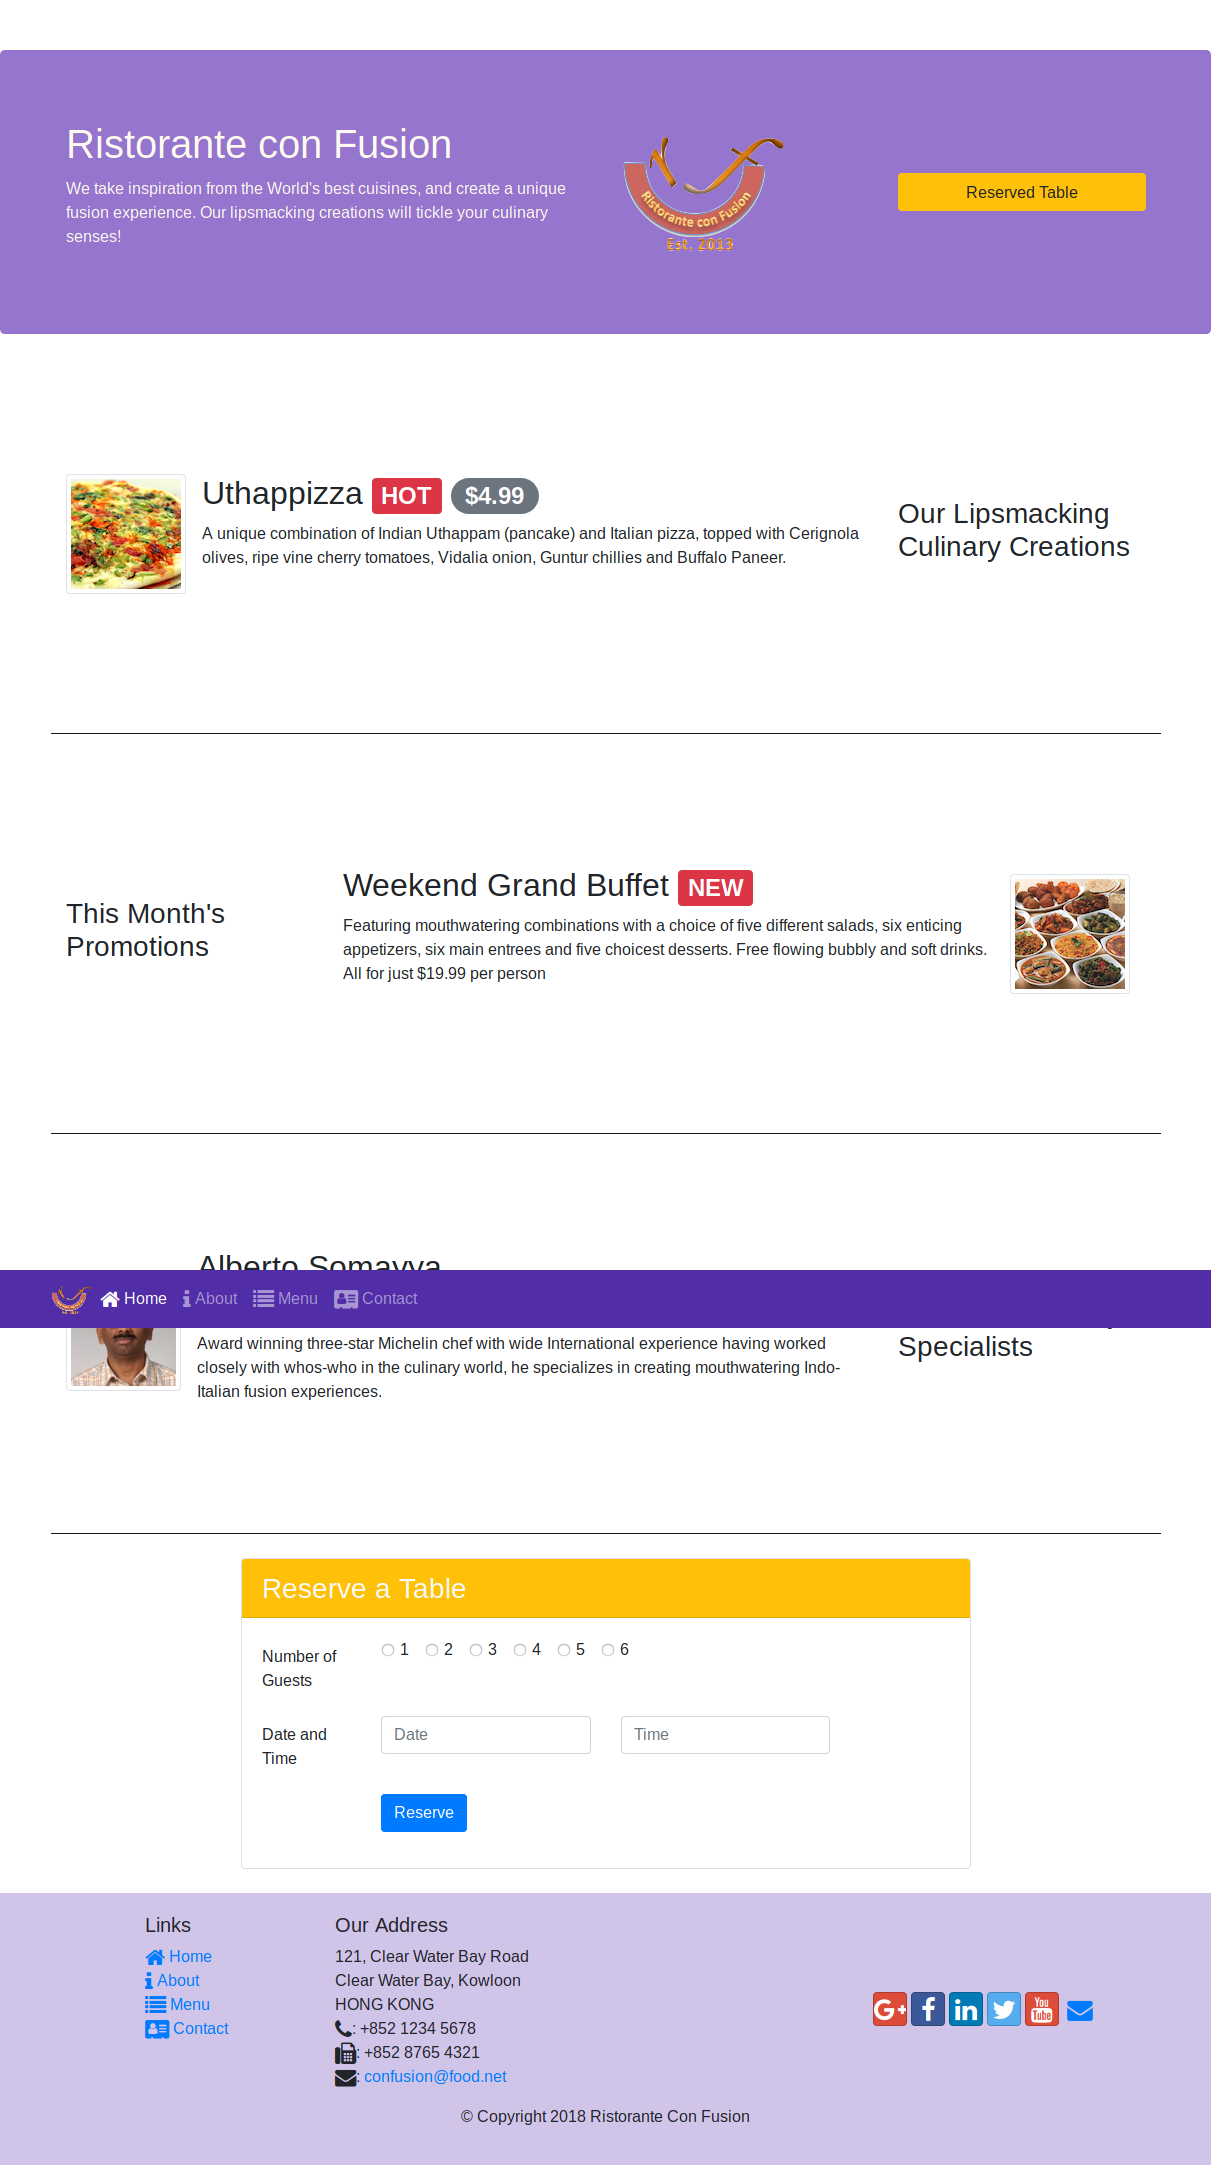
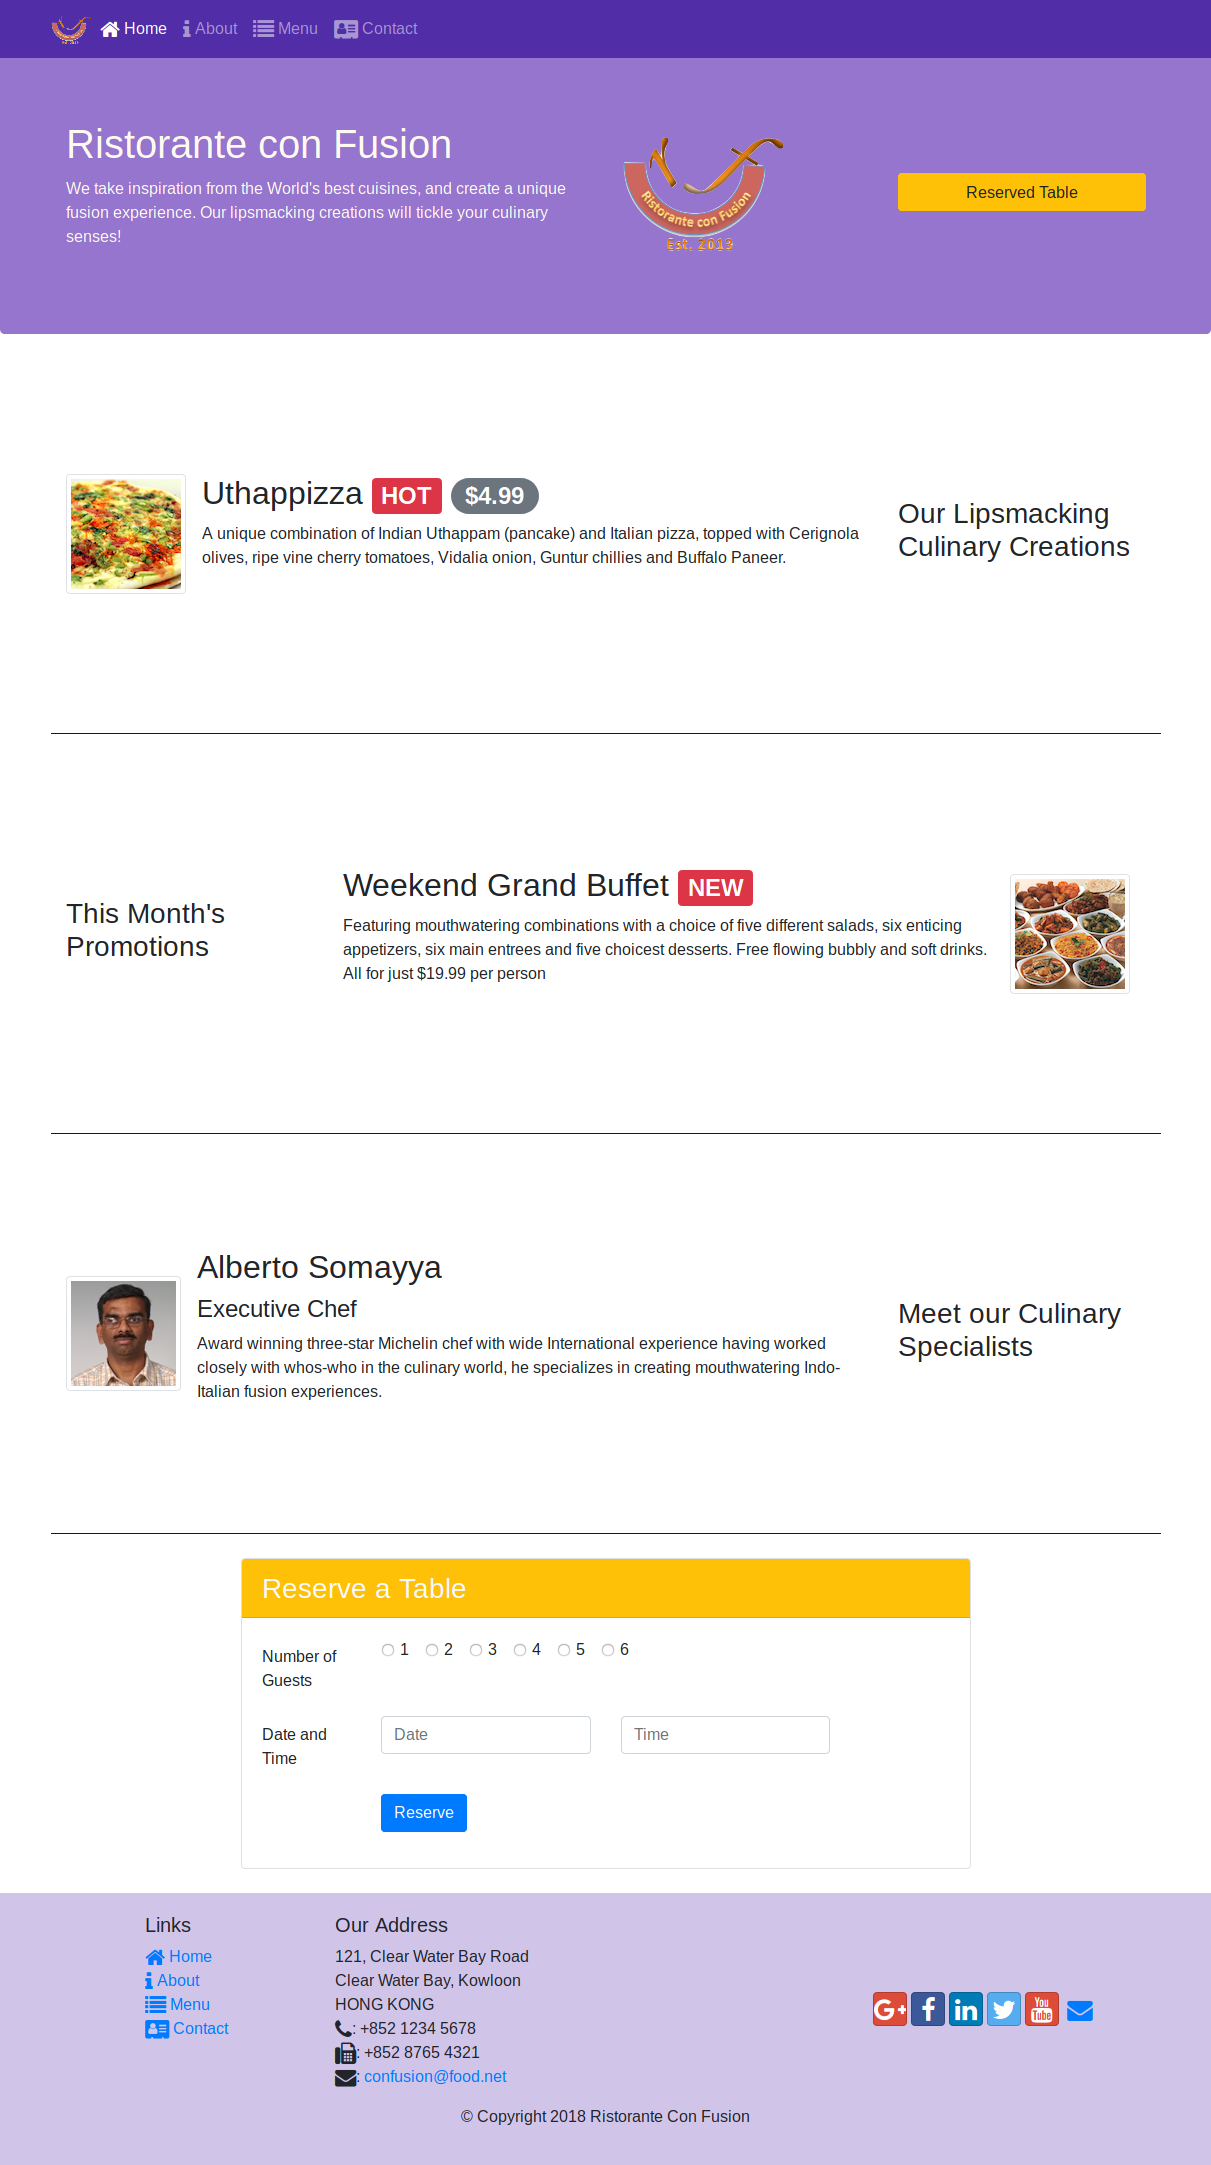
assignment 3

Changed region(s): [[0.0, 0.588, 1.0, 0.6189], [0.0, 0.0, 1.0, 0.0309]]

diff --git a/index.html b/index.html
@@ -58,10 +58,13 @@
           <img src="img/logo.png" class="img-fluid">
         </div>
         <div class="col-12 col-sm align-self-center">
-          <a href="#reserve" class="btn btn-block btn-warning nav-link" role="button" data-toggle="tooltip"
+            <a role="button" data-toggle="modal" data-target="#reserve" class="btn btn-block btn-warning nav-link">
+                 Reserved Table</a>
+              
+          <!-- <a href="#reserve" class="btn btn-block btn-warning nav-link" role="button" data-toggle="tooltip"
             data-html="true" title="Or Call us at  <br><strong>+852 12345678</strong>" data-placement="bottom">
             Reserved Table
-          </a>
+          </a> -->
         </div>
       </div>
     </div>
@@ -74,38 +77,112 @@
           <h4 class="modal-title">Login</h4>
           <button class="close" type="button" data-dismiss="modal">&times;</button>
         </div>
+        <div class="modal-body">
+          <form>
+            <div class="form-row">
+              <div class="form-group col-sm-4">
+                <label class="sr-only" for="exampleInputEmail3">Email address</label>
+                <input type="email" class="form-control form-control-sm mr-1" id="exampleInputEmail3"
+                  placeholder="Enter email">
+              </div>
+              <div class="form-group col-sm-4">
+                <label class="sr-only" for="exampleInputPassword3">Password</label>
+                <input type="password" class="form-control form-control-sm mr-1" id="exampleInputPassword3"
+                  placeholder="Password">
+              </div>
+              <div class="col-sm-auto">
+                <div class="form-check">
+                  <input class="form-check-input" type="checkbox">
+                  <label class="form-check-label"> Remember me
+                  </label>
+                </div>
+              </div>
+            </div>
+            <div class="form-row">
+              <button type="button" class="btn btn-secondary btn-sm ml-auto" data-dismiss="modal">Cancel</button>
+              <button type="submit" class="btn btn-primary btn-sm ml-1">Sign in</button>
+            </div>
+          </form>
+        </div>
+
+      </div>
+    </div>
+  </div>
+
+
+  <div id="reserve" class="modal fade" role="dialog">
+      <div class="modal-dialog modal-lg">
         <div class="modal-content">
+          <div class="modal-header">
+            <h3 class="modal-title">Reserve a Table</h3>
+            <button class="close" type="button" data-dismiss="modal">&times;</button>
+          </div>
           <div class="modal-body">
             <form>
-              <div class="form-row">
-                <div class="form-group col-sm-4">
-                  <label class="sr-only" for="exampleInputEmail3">Email address</label>
-                  <input type="email" class="form-control form-control-sm mr-1" id="exampleInputEmail3"
-                    placeholder="Enter email">
-                </div>
-                <div class="form-group col-sm-4">
-                  <label class="sr-only" for="exampleInputPassword3">Password</label>
-                  <input type="password" class="form-control form-control-sm mr-1" id="exampleInputPassword3"
-                    placeholder="Password">
-                </div>
-                <div class="col-sm-auto">
-                  <div class="form-check">
-                    <input class="form-check-input" type="checkbox">
-                    <label class="form-check-label"> Remember me
-                    </label>
+              <div class="form-group row">
+                <label class="col-12 col-md-2 col-form-label">Number of Guests</label>
+                <div class="col-10">
+                  <div class="form-check form-check-inline">
+                    <input type="radio" class="form-check-input" name="radio" id="radio1" value="1">
+                    <label for="radio1" class="form-check-label">1</label>
+                  </div>
+                  <div class="form-check form-check-inline">
+                    <input type="radio" class="form-check-input" name="radio" id="radio2" value="1">
+                    <label for="radio2" class="form-check-label">2</label>
+                  </div>
+                  <div class="form-check form-check-inline">
+                    <input type="radio" class="form-check-input" name="radio" id="radio3" value="3">
+                    <label for="radio3" class="form-check-label">3</label>
+                  </div>
+                  <div class="form-check form-check-inline">
+                    <input type="radio" class="form-check-input" name="radio" id="radio4" value="4">
+                    <label for="radio4" class="form-check-label">4</label>
+                  </div>
+                  <div class="form-check form-check-inline">
+                    <input type="radio" class="form-check-input" name="radio" id="radio5" value="5">
+                    <label for="radio5" class="form-check-label">5</label>
+                  </div>
+                  <div class="form-check form-check-inline">
+                    <input type="radio" class="form-check-input" name="radio" id="radio6" value="6">
+                    <label for="radio6" class="form-check-label">6</label>
                   </div>
                 </div>
               </div>
-              <div class="form-row">
-                <button type="button" class="btn btn-secondary btn-sm ml-auto" data-dismiss="modal">Cancel</button>
-                <button type="submit" class="btn btn-primary btn-sm ml-1">Sign in</button>
+              <div class="form-group row">
+                  <label for="" class="col-12 col-md-2 col-form-label">
+                    Section
+                  </label>
+                  <div class="btn-group btn-group-toggle" data-toggle="buttons">
+                      <label class="btn btn-secondary active btn-success">
+                        <input type="radio" name="options" id="option1" checked> Non-Smoking
+                      </label>
+                      <label class="btn btn-secondary btn-danger">
+                        <input type="radio" name="options" id="option2"> Smoking
+                      </label>
+                  </div>
+              </div>
+              <div class="form-group row">
+                <label for="" class="col-12 col-md-2 col-form-label">Date and Time</label>
+                <div class="col-12 col-md-4">
+                  <input type="text" name="date" placeholder="Date" class="form-control">
+                </div>
+                <div class="col-12 col-md-4">
+                  <input type="text" name="time" placeholder="Time" class="form-control">
+                </div>
+              </div>
+              <div class="form-group row">
+                <label for="" class="col-12 col-md-2 col-form-label"></label>
+                <div class="col">
+                    <button type="button" class="btn btn-secondary ml-auto" data-dismiss="modal"> Cancel</button>
+                  <button class="btn btn-primary" type="submit">Reserve</button>
+                </div>
               </div>
             </form>
           </div>
         </div>
       </div>
     </div>
-  </div>
+
 
 
   <div class="container">
@@ -117,7 +194,7 @@
             <div class="carousel-item active">
               <img src="img/uthappizza.png" alt="uthappizza" class="d-block">
               <div class="carousel-caption d-none d-md-block">
-                  <h2 class="mt-0">Uthappizza <span class="badge badge-danger">HOT</span> <span
+                <h2 class="mt-0">Uthappizza <span class="badge badge-danger">HOT</span> <span
                     class="badge badge-pill badge-secondary">$4.99</span></h2>
                 <p class="d-none d-sm-block">A unique combination of Indian Uthappam (pancake) and
                   Italian pizza, topped with Cerignola olives, ripe vine
@@ -128,25 +205,25 @@
             <div class="carousel-item">
               <img src="img/buffet.png" alt="buffet" class="d-block">
               <div class="carousel-caption d-none d-md-block">
-                  <h2>Weekend Grand Buffet <span class="badge badge-danger">NEW</span></h2>
-                  <p class="d-none d-sm-block">
-                    Featuring mouthwatering combinations with a choice of five different
-                    salads, six enticing appetizers, six main entrees and five choicest
-                    desserts. Free flowing bubbly and soft drinks. All for just $19.99
-                    per person
-                  </p>
+                <h2>Weekend Grand Buffet <span class="badge badge-danger">NEW</span></h2>
+                <p class="d-none d-sm-block">
+                  Featuring mouthwatering combinations with a choice of five different
+                  salads, six enticing appetizers, six main entrees and five choicest
+                  desserts. Free flowing bubbly and soft drinks. All for just $19.99
+                  per person
+                </p>
               </div>
             </div>
             <div class="carousel-item">
               <img src="img/alberto.png" alt="alberto">
               <div class="carousel-caption d-none d-md-block">
-                  <h2 class="mt-0">Alberto Somayya</h2>
-                  <h4>Executive Chef</h4>
-                  <p class="d-none d-sm-block">Award winning three-star Michelin chef with wide
-                    International experience having worked closely with
-                    whos-who in the culinary world, he specializes in
-                    creating mouthwatering Indo-Italian fusion experiences.
-                  </p>
+                <h2 class="mt-0">Alberto Somayya</h2>
+                <h4>Executive Chef</h4>
+                <p class="d-none d-sm-block">Award winning three-star Michelin chef with wide
+                  International experience having worked closely with
+                  whos-who in the culinary world, he specializes in
+                  creating mouthwatering Indo-Italian fusion experiences.
+                </p>
               </div>
             </div>
           </div>
@@ -160,14 +237,17 @@
             <span class="carousel-control-prev-icon"></span>
           </a>
           <a href="#mycarousel" class="carousel-control-next" data-slide="next" role="button">
-              <span class="carousel-control-next-icon"></span>
-            </a>
+            <span class="carousel-control-next-icon"></span>
+          </a>
         </div>
       </div>
     </div>
 
 
 
+
+    
+<!-- 
     <div class="row row-content align-items-center">
       <div class="col-12 col-sm-4 col-md-3 order-sm-last">
         <h3>Our Lipsmacking Culinary Creations</h3>
@@ -227,10 +307,9 @@
         </div>
 
       </div>
-    </div>
+    </div> -->
 
-    <div id="reserve" class="row mt-4 mb-4">
-      <div class="col-12 col-sm-8 mx-auto">
+    <!-- <div class="col-12 col-sm-8 mx-auto">
         <div class="card">
           <h3 class="card-header bg-warning text-light">Reserve a Table</h3>
           <div class="card-body">
@@ -284,61 +363,56 @@
         </div>
       </div>
     </div>
-  </div>
+  </div> -->
 
-  <footer class="footer">
-    <div class="container">
-      <div class="row">
-        <div class="col-4 col-sm-2 offset-1">
-          <h5>Links</h5>
-          <ul class="list-unstyled">
-            <li><a href="#"><span class="fa fa-home fa-lg"></span> Home</a></li>
-            <li><a href="./aboutus.html"><span class="fa fa-info fa-lg"></span> About</a></li>
-            <li><a href="#"><span class="fa fa-list fa-lg"></span> Menu</a></li>
-            <li><a href="./contactus.html"><span class="fa fa-address-card fa-lg"></span> Contact</a></li>
-          </ul>
+    <footer class="footer">
+      <div class="container">
+        <div class="row">
+          <div class="col-4 col-sm-2 offset-1">
+            <h5>Links</h5>
+            <ul class="list-unstyled">
+              <li><a href="#"><span class="fa fa-home fa-lg"></span> Home</a></li>
+              <li><a href="./aboutus.html"><span class="fa fa-info fa-lg"></span> About</a></li>
+              <li><a href="#"><span class="fa fa-list fa-lg"></span> Menu</a></li>
+              <li><a href="./contactus.html"><span class="fa fa-address-card fa-lg"></span> Contact</a></li>
+            </ul>
+          </div>
+          <div class="col-7 col-sm-5">
+            <h5>Our Address</h5>
+            <address>
+              121, Clear Water Bay Road<br />
+              Clear Water Bay, Kowloon<br />
+              HONG KONG<br />
+              <i class="fa fa-phone fa-lg"></i>: +852 1234 5678<br />
+              <i class="fa fa-fax fa-lg"></i>: +852 8765 4321<br />
+              <i class="fa fa-envelope fa-lg"></i>: <a href="mailto:confusion@food.net">confusion@food.net</a>
+            </address>
+          </div>
+          <div class="col-12 col-sm-4 text-center align-self-center">
+            <div>
+              <a class="btn btn-social-icon btn-google" href="http://google.com/+"><i class="fa fa-google-plus"></i></a>
+              <a class="btn btn-social-icon btn-facebook" href="http://www.facebook.com/profile.php?id="><i
+                  class="fa fa-facebook"></i></a>
+              <a class="btn btn-social-icon btn-linkedin" href="http://www.linkedin.com/in/"><i
+                  class="fa fa-linkedin"></i></a>
+              <a class="btn btn-social-icon btn-twitter" href="http://twitter.com/"><i class="fa fa-twitter"></i></a>
+              <a class="btn btn-social-icon btn-google" href="http://youtube.com/"><i class="fa fa-youtube"></i></a>
+              <a class="btn btn-social-icon" href="mailto:"><i class="fa fa-envelope"></i></a>
+            </div>
+          </div>
         </div>
-        <div class="col-7 col-sm-5">
-          <h5>Our Address</h5>
-          <address>
-            121, Clear Water Bay Road<br />
-            Clear Water Bay, Kowloon<br />
-            HONG KONG<br />
-            <i class="fa fa-phone fa-lg"></i>: +852 1234 5678<br />
-            <i class="fa fa-fax fa-lg"></i>: +852 8765 4321<br />
-            <i class="fa fa-envelope fa-lg"></i>: <a href="mailto:confusion@food.net">confusion@food.net</a>
-          </address>
-        </div>
-        <div class="col-12 col-sm-4 text-center align-self-center">
-          <div>
-            <a class="btn btn-social-icon btn-google" href="http://google.com/+"><i class="fa fa-google-plus"></i></a>
-            <a class="btn btn-social-icon btn-facebook" href="http://www.facebook.com/profile.php?id="><i
-                class="fa fa-facebook"></i></a>
-            <a class="btn btn-social-icon btn-linkedin" href="http://www.linkedin.com/in/"><i
-                class="fa fa-linkedin"></i></a>
-            <a class="btn btn-social-icon btn-twitter" href="http://twitter.com/"><i class="fa fa-twitter"></i></a>
-            <a class="btn btn-social-icon btn-google" href="http://youtube.com/"><i class="fa fa-youtube"></i></a>
-            <a class="btn btn-social-icon" href="mailto:"><i class="fa fa-envelope"></i></a>
+        <div class="row justify-content-center">
+          <div class="col-auto">
+            <p>© Copyright 2018 Ristorante Con Fusion</p>
           </div>
         </div>
       </div>
-      <div class="row justify-content-center">
-        <div class="col-auto">
-          <p>© Copyright 2018 Ristorante Con Fusion</p>
-        </div>
-      </div>
-    </div>
-  </footer>
+    </footer>
 
-  <!-- jQuery first, then Popper.js, then Bootstrap JS. -->
-  <script src="node_modules/jquery/dist/jquery.slim.min.js"></script>
-  <script src="node_modules/popper.js/dist/umd/popper.min.js"></script>
-  <script src="node_modules/bootstrap/dist/js/bootstrap.min.js"></script>
-  <script>
-    $(document).ready(function () {
-      $('[data-toggle="tooltip"').tooltip();
-    });
-  </script>
+    <!-- jQuery first, then Popper.js, then Bootstrap JS. -->
+    <script src="node_modules/jquery/dist/jquery.slim.min.js"></script>
+    <script src="node_modules/popper.js/dist/umd/popper.min.js"></script>
+    <script src="node_modules/bootstrap/dist/js/bootstrap.min.js"></script>
 </body>
 
 </html>
